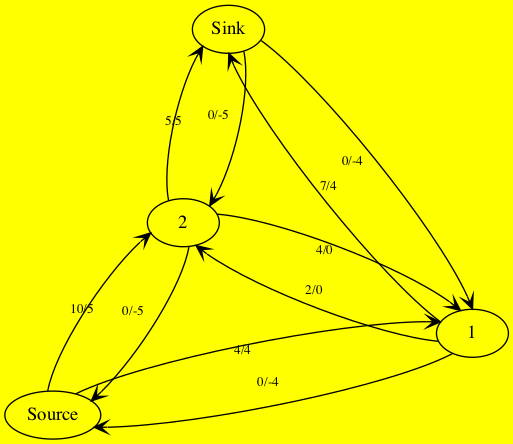
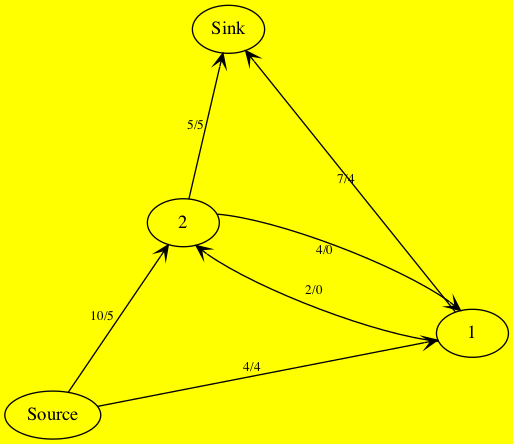
option added for user to choose whether or not to hide 0 capacity edges with non-zero flow

diff --git a/pythons/Edmond_Karp.py b/pythons/Edmond_Karp.py
@@ -5,7 +5,7 @@ import Edmond_Karp_Residual
 import os
 import display_graphs
 
-def max_flow(C, s, t):
+def max_flow(C, s, t, hide0cp=False):
         n = len(C) # C is the capacity matrix, defined below
         F = [[0] * n for i in range(n)]
 
@@ -16,7 +16,7 @@ def max_flow(C, s, t):
         path = bfs(C, F, s, t)
         while path != None:
             flow = min(C[u][v] - F[u][v] for u,v in path)
-            Edmond_Karp_Flow.makeGraph(C, F, s, t, fGraphName)
+            Edmond_Karp_Flow.makeGraph(C, F, s, t, fGraphName, hide0cp)
             Edmond_Karp_Residual.makeGraph(C, F, path, flow, s, t, rGraphName)
             for u,v in path:
                 F[u][v] += flow
@@ -25,7 +25,7 @@ def max_flow(C, s, t):
             fGraphName = "imgs/flow/flowGraph" +str(index) + ".png"
             rGraphName = "imgs/resi/residualGraph" +str(index) + ".png"
             path = bfs(C, F, s, t)
-        Edmond_Karp_Flow.makeGraph(C, F, s, t, fGraphName)
+        Edmond_Karp_Flow.makeGraph(C, F, s, t, fGraphName, hide0cp)
         Edmond_Karp_Residual.makeGraph(C, F, path, flow, s, t, rGraphName)
         return sum(F[s][i] for i in range(n))
 
@@ -90,8 +90,13 @@ for filename in os.listdir(folder2):
     except Exception as e:
         print('Failed to delete %s. Reason: %s' % (file_path, e))
 
+hide0cap = input("Should 0 capacity edges with non-zero flow be hidden? (y/n) : ")
 
-max_flow_value = max_flow(C, source, sink)
+if(hide0cap=='n'):
+    max_flow_value = max_flow(C, source, sink, False)
+else:
+    max_flow_value = max_flow(C, source, sink, True)
+
 print ("Edmonds-Karp algorithm")
 print ("max_flow_value is: ", max_flow_value)
-display_graphs.displayAllGraphs()
+display_graphs.displayAllGraphs(max_flow_value)

diff --git a/pythons/display_graphs.py b/pythons/display_graphs.py
@@ -4,7 +4,7 @@ from tkinter import *
 import PIL.Image
 DimHeight = 500
 
-def displayAllGraphs():
+def displayAllGraphs(max_flow_value):
     win = Tk()
     win.title("Edmond-Karp Visualisation")
     win.geometry("1500x1000")                 # changed so as to fit whole window (instead of line28, which isn't working on mac)
@@ -21,6 +21,12 @@ def displayAllGraphs():
     frameLegend.place(anchor='sw', relx=0.1, rely=0.95)
     lbllegend = Label(frameLegend, text='C/F on edge represents the edge \nwith capacity C, having flow F', font="arial 15", fg="black", bg='green')
     lbllegend.pack()
+
+    frameanslbl = Frame(win, width=50, height=50)
+    frameanslbl.place(anchor='se', relx=0.8, rely=0.95)
+    answerlabeltext = 'Edmonds-Karp algorithm\nmax_flow_value is: = '+str(max_flow_value)
+    anslbl = Label(frameanslbl, text=answerlabeltext, font="arial 15", fg="black", bg='green')
+    # anslbl.pack()
     residualImgs=[]
     flowImgs=[]
 
@@ -43,6 +49,7 @@ def displayAllGraphs():
         global curr
         curr+=1
         if curr == len(flowImgs)-1:
+            anslbl.pack()
             slogan2.pack_forget()
         if curr >= 1:
             slogan1.pack(side=LEFT)
@@ -104,6 +111,7 @@ def displayAllGraphs():
         if curr == 0:
             slogan1.pack_forget()
         if curr <= len(flowImgs)-2:
+            anslbl.pack_forget()
             slogan2.pack(side=RIGHT)
 
 

diff --git a/pythons/Edmond_Karp_Flow.py b/pythons/Edmond_Karp_Flow.py
@@ -1,7 +1,7 @@
 from cProfile import label
 import pydot
 
-def makeGraph(C, F, s, t, fGraphName):
+def makeGraph(C, F, s, t, fGraphName, hide0cp=False):
     n = len(C)  
     graph = pydot.Dot("my_graph", graph_type="digraph", bgcolor="yellow", sep=3, nodesep=0.9)
 
@@ -12,7 +12,7 @@ def makeGraph(C, F, s, t, fGraphName):
     graph.get_node(str(s))[0].set_label("Source")
     graph.get_node(str(t))[0].set_label("Sink")
 
-    # Forcing source to be at top and sink to be at bottom of the graph
+    # Forcing source to be at top and sink to be in opposite sides of the graph
     subg=pydot.Subgraph(rank='source')
     subg.add_node(pydot.Node(str(s)))
     graph.add_subgraph(subg)
@@ -23,9 +23,11 @@ def makeGraph(C, F, s, t, fGraphName):
     # add edges
     for i in range(n):
         for j in range(n):
-            if (C[i][j]!=0) or (F[i][j]!=0):
+            if (((C[i][j]!=0) or (F[i][j]!=0)) and not hide0cp):
                 graph.add_edge(pydot.Edge(str(i), str(j), label=str(C[i][j])+"/"+str(F[i][j]),fontsize="10.0",arrowhead='vee' ))
-
+            if ((C[i][j]!=0) and hide0cp):
+                graph.add_edge(pydot.Edge(str(i), str(j), label=str(C[i][j])+"/"+str(F[i][j]),fontsize="10.0",arrowhead='vee' ))
+            
     # fdp fixes nodes' positions
     graph.write(fGraphName, prog='fdp', format='png')
     

diff --git a/pythons/Edmond_Karp_Residual.py b/pythons/Edmond_Karp_Residual.py
@@ -15,7 +15,7 @@ def makeGraph(C, F, path, flow, s, t, rGraphName):
     graph.get_node(str(s))[0].set_label("Source")
     graph.get_node(str(t))[0].set_label("Sink")
 
-    # Forcing source to be at top and sink to be at bottom of the graph
+    # Forcing source to be at top and sink to be in opposite sides of the graph
     subg=pydot.Subgraph(rank='source')
     subg.add_node(pydot.Node(str(s)))
     graph.add_subgraph(subg)
